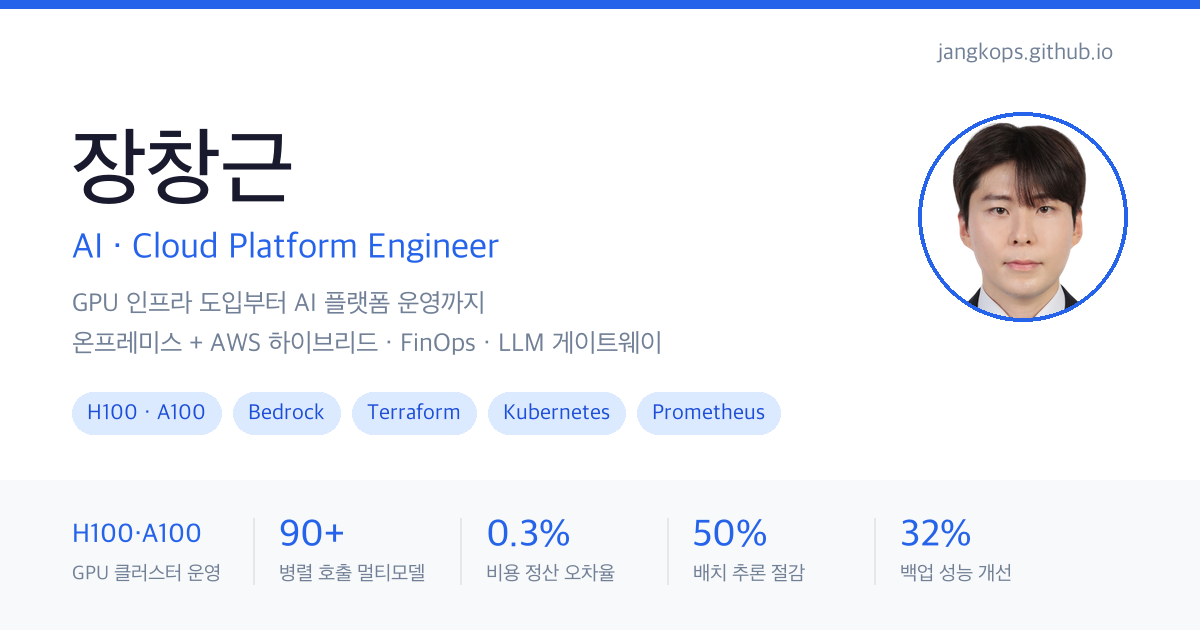
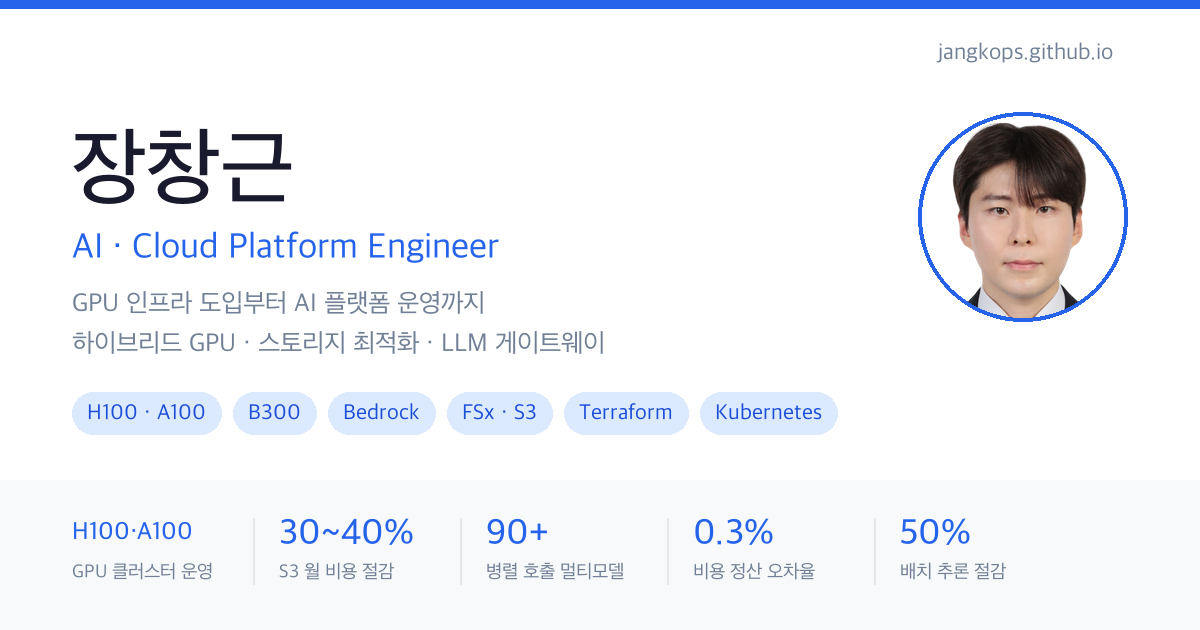
feat(site): 스토리지 최적화 성과 추가 및 B300 정정
내용 추가
- 신규 프로젝트: 연구 데이터 스토리지 비용·성능 최적화 및 사용량 가시화 (STAR)
  · S3 Intelligent-Tiering 기준 정립 + prefix 단위 데이터 분류·정리 +
    수명주기 규칙으로 월 S3 비용 30~40% 절감
  · 메타데이터 IOPS 병목 워크로드를 FSx 로 마이그레이션해 학습 중단 장애 대폭 감소
  · S3 Inventory·Athena 일배치 + DynamoDB 실시간 카운터를 Grafana 패널로 노출,
    과제코드·사용자 scope 에서 폴더 트리를 depth 끝까지 드릴다운해 객체 수·용량 확인
- 핵심 지표에 30~40% S3 월 비용 절감 추가 (5개 → 6개)
- 경력 요약·경력 사항·핵심 역량·Archive 설명에 스토리지 성과 반영
- Observability 역량 카드를 Observability & Storage 로 확장

정정
- B200 → B300 (고밀도 랙과 함께 도입 추진). B200 표기 전량 제거

레이아웃
- 지표 6개를 3+3 으로 고정 (중복이던 900px 규칙 제거)
  전 구간에서 마지막 줄이 컨테이너를 채워 고아 카드 없음
- og-image 갱신 (B300, S3 절감 지표 반영)

검증 1440/1280/900/821/768/700/640/375:
지표 3+3 · 2+2+2 전부 꽉 채움, 어절 중간 줄바꿈 0, 폭 미달 0,
지표값 넘침 0, 가로 오버플로우 0, 태그 불일치 0, STAR 배지 36.

diff --git a/index.html b/index.html
@@ -75,12 +75,16 @@
         <div class="career-summary__intro">
           <p class="career-summary__eyebrow">ABOUT ME</p>
           <h3>GPU·AI 워크로드를 위한 플랫폼 엔지니어</h3>
-          <p>총 경력 4년이상의 플랫폼 엔지니어로, 신약 연구 조직의 AI 워크로드를 받치는 GPU 인프라를 도입 단계부터 운영까지 책임지고 있습니다. A100·H100 기반 온프레미스 클러스터와 AWS Capacity Block(p4d·p4de·p5)을 병행하는 하이브리드 구성을 설계했고, 최근에는 B200·B300을 고밀도 랙에 도입하는 건을 추진했습니다. 도입에 그치지 않고 관측·정산·보호 체계를 직접 구현해 GPU 자원의 가용성과 비용을 함께 관리합니다. 온프레미스의 안정성과 클라우드 네이티브의 속도를 모두 경험했으며 0.3% 오차 미만의 GPU등 핵심 리소스의 복잡한 프로젝트별 일/월별 비용 정산 대시보드, Terraform 기반의 AWS Bedrock 생성형 AI 멀티모델 쿼터 게이트웨이 파이프라인 구축(배치 추론 경로로 단가 50% 절감), 90여 개 모델을 병렬 호출·합의하는 AI 에이전틱 에디터 개발, Ansible 기반의 계정 관리 자동화 통합 플랫폼을 구축하여 운영 공수를 절감했습니다. GPU·스토리지 통합 관측 체계와 커널 수준 리소스 보호 정책으로 연구 인프라의 가용성을 확보했고, 대규모 금융권 레거시 백업 시스템 성능을 32% 개선하는 등 실질적인 기술 성과를 보유하고 있습니다. AWS Generative AI Developer – Professional(2026), AWS DevOps Engineer – Professional(2025), CKA 등 담당 업무와 직결된 자격을 실무와 함께 유지하고 있습니다.</p>
+          <p>총 경력 4년이상의 플랫폼 엔지니어로, 신약 연구 조직의 AI 워크로드를 받치는 GPU 인프라를 도입 단계부터 운영까지 책임지고 있습니다. A100·H100 기반 온프레미스 클러스터와 AWS Capacity Block(p4d·p4de·p5)을 병행하는 하이브리드 구성을 설계했고, 최근에는 B300을 고밀도 랙과 함께 도입하는 건을 추진했습니다. 도입에 그치지 않고 관측·정산·보호 체계를 직접 구현해 GPU 자원의 가용성과 비용을 함께 관리합니다. 스토리지 계층에서는 S3 Intelligent-Tiering 정립과 prefix 단위 데이터 분류·정리로 월 S3 비용을 30~40% 절감했고, FSx 마이그레이션으로 메타데이터 IOPS를 개선해 학습 중단 장애를 크게 줄였습니다. 온프레미스의 안정성과 클라우드 네이티브의 속도를 모두 경험했으며 0.3% 오차 미만의 GPU등 핵심 리소스의 복잡한 프로젝트별 일/월별 비용 정산 대시보드, Terraform 기반의 AWS Bedrock 생성형 AI 멀티모델 쿼터 게이트웨이 파이프라인 구축(배치 추론 경로로 단가 50% 절감), 90여 개 모델을 병렬 호출·합의하는 AI 에이전틱 에디터 개발, Ansible 기반의 계정 관리 자동화 통합 플랫폼을 구축하여 운영 공수를 절감했습니다. GPU·스토리지 통합 관측 체계와 커널 수준 리소스 보호 정책으로 연구 인프라의 가용성을 확보했고, 대규모 금융권 레거시 백업 시스템 성능을 32% 개선하는 등 실질적인 기술 성과를 보유하고 있습니다. AWS Generative AI Developer – Professional(2026), AWS DevOps Engineer – Professional(2025), CKA 등 담당 업무와 직결된 자격을 실무와 함께 유지하고 있습니다.</p>
         </div>
         <div class="career-stats reveal-stagger">
           <article class="career-stat career-stat--text">
             <strong>H100 · A100</strong>
-            <span>GPU 클러스터 운영 · B200 도입 추진</span>
+            <span>GPU 클러스터 운영 · B300 도입 추진</span>
+          </article>
+          <article class="career-stat">
+            <strong>30~40%</strong>
+            <span>S3 월 비용 절감</span>
           </article>
           <article class="career-stat">
             <strong>90+</strong>
@@ -117,20 +121,23 @@
           <p>A100·H100 하이브리드 GPU 클러스터 운영과 Bedrock 기반 AI 파이프라인 설계 (AWS Generative AI Developer · DevOps Engineer Professional)</p>
           <div class="chip-cloud">
             <span class="chip">NVIDIA H100 · A100</span>
-            <span class="chip">B200 · B300</span>
+            <span class="chip">NVIDIA B300</span>
             <span class="chip">AWS Capacity Block</span>
             <span class="chip">Bedrock</span>
             <span class="chip">Bedrock Gateway</span>
           </div>
         </div>
         <div class="competency-card">
-          <span class="competency-card__eyebrow">Observability</span>
-          <strong>실시간 모니터링 체계</strong>
-          <p>Prometheus, Grafana, Alertmanager를 활용한 EtoE 실시간 모니터링 체계 구축 및 운영</p>
+          <span class="competency-card__eyebrow">Observability &amp; Storage</span>
+          <strong>관측 체계 · 스토리지 가시성</strong>
+          <p>Prometheus·Grafana 기반 GPU 관측에 더해, S3·FSx 사용량을 prefix·과제·사용자 단위로 추적하는 대시보드 운영</p>
           <div class="chip-cloud">
             <span class="chip">Prometheus</span>
             <span class="chip">Grafana</span>
             <span class="chip">Alertmanager</span>
+            <span class="chip">S3 Inventory</span>
+            <span class="chip">Amazon FSx</span>
+            <span class="chip">AWS Athena</span>
           </div>
         </div>
         <div class="competency-card">
@@ -191,7 +198,7 @@
             <span class="timeline__period">2025.11 ~ 현재 (재직중)</span>
             <strong class="timeline__company">GC녹십자 목암생명과학연구소</strong>
             <span class="timeline__role">Infra Architect (정규직 연구원)</span>
-            <p class="timeline__desc">AWS 클라우드 인프라 설계 및 구축(OS, EC2, Organization, IAM Identity Center, Permission Set, Cross-AZ, VPC, Capacity Block GPU 자원 관리 등 Finops 요소 포함), 멀티모델 AI 에이전트 애플리케이션 개발 및 인프라 파이프라인 구현, GPU 실시간 리소스 모니터링 및 알림 전송체계(Prometheus & Grafana) 구축, 인프라 장애 대응, 온프레미스/클라우드 GPU 인프라 자원 도입 및 수급 계약</p>
+            <p class="timeline__desc">AWS 클라우드 인프라 설계 및 구축(OS, EC2, Organization, IAM Identity Center, Permission Set, Cross-AZ, VPC, Capacity Block GPU 자원 관리 등 Finops 요소 포함), 멀티모델 AI 에이전트 애플리케이션 개발 및 인프라 파이프라인 구현, GPU 실시간 리소스 모니터링 및 알림 전송체계(Prometheus & Grafana) 구축, S3 Intelligent-Tiering·수명주기 정책 정립과 FSx 마이그레이션을 통한 스토리지 비용·성능 개선, 인프라 장애 대응, 온프레미스/클라우드 GPU 인프라 자원 도입 및 수급 계약</p>
             <div class="chip-cloud">
               <span class="chip">AWS</span>
               <span class="chip">React</span>
@@ -201,6 +208,8 @@
               <span class="chip">Bedrock</span>
               <span class="chip">Terraform</span>
               <span class="chip">Prometheus</span>
+              <span class="chip">Amazon FSx</span>
+              <span class="chip">S3</span>
             </div>
           </div>
         </div>
@@ -283,7 +292,7 @@
             <div class="pd-badge pd-badge--star-a">
               <span class="pd-badge__mark">A</span>
               <strong>행동 (Action)</strong>
-              <span>A100·H100 기반 온프레미스 클러스터를 상시 학습용으로, AWS Capacity Block(p4d·p4de·p5)을 탄력 수요용으로 배치하는 하이브리드 구성을 설계하고 수급 계약과 도입 협상을 직접 수행했습니다. 최근에는 B200·B300을 고밀도 랙에 도입하는 건을 추진했습니다. 도입에서 멈추지 않고 운영 3축을 직접 구현했습니다 — DCGM 커스텀 익스포터 기반 GPU·프로세스 관측, 과제별 비용 정산 대시보드, cgroup 리소스 쿼터와 OOM Guard 데몬을 통한 노드 보호입니다.</span>
+              <span>A100·H100 기반 온프레미스 클러스터를 상시 학습용으로, AWS Capacity Block(p4d·p4de·p5)을 탄력 수요용으로 배치하는 하이브리드 구성을 설계하고 수급 계약과 도입 협상을 직접 수행했습니다. 최근에는 B300을 고밀도 랙과 함께 도입하는 건을 추진했습니다. 도입에서 멈추지 않고 운영 3축을 직접 구현했습니다 — DCGM 커스텀 익스포터 기반 GPU·프로세스 관측, 과제별 비용 정산 대시보드, cgroup 리소스 쿼터와 OOM Guard 데몬을 통한 노드 보호입니다.</span>
             </div>
             <div class="pd-badge pd-badge--star-r">
               <span class="pd-badge__mark">R</span>
@@ -294,7 +303,7 @@
           <div class="chip-cloud" style="padding: 0 22px 22px;">
             <span class="chip">NVIDIA H100</span>
             <span class="chip">A100</span>
-            <span class="chip">B200 · B300</span>
+            <span class="chip">NVIDIA B300</span>
             <span class="chip">고밀도 랙</span>
             <span class="chip">On-prem DGX</span>
             <span class="chip">AWS Capacity Block</span>
@@ -302,6 +311,47 @@
             <span class="chip">DCGM</span>
             <span class="chip">Prometheus</span>
             <span class="chip">cgroup</span>
+          </div>
+        </article>
+        <article class="project-detail-card project-detail-card--cloud reveal">
+          <div class="project-detail-card__head">
+            <span class="project-detail-card__eyebrow">GC녹십자 목암생명과학연구소 | 2025.11 ~ 현재</span>
+            <strong>연구 데이터 스토리지 비용·성능 최적화 및 사용량 가시화</strong>
+            <p>S3 Intelligent-Tiering 정립과 FSx 마이그레이션으로 비용과 메타데이터 성능을 동시에 개선하고, prefix 단위까지 추적하는 대시보드 구축</p>
+          </div>
+          <div class="project-detail-badges">
+            <div class="pd-badge pd-badge--star-s">
+              <span class="pd-badge__mark">S</span>
+              <strong>상황 (Situation)</strong>
+              <span>연구 데이터가 정리 기준 없이 축적되면서 월 S3 비용이 큰 금액으로 불어났지만, 어느 과제와 사용자가 무엇을 쌓고 있는지 특정할 수 없었습니다. 동시에 학습 워크로드는 대량의 작은 파일을 다루는 특성상 <b>메타데이터 IOPS가 병목</b>이 되어 학습이 중단되는 장애가 반복됐습니다.</span>
+            </div>
+            <div class="pd-badge pd-badge--star-t">
+              <span class="pd-badge__mark">T</span>
+              <strong>과제 (Task)</strong>
+              <span>비용은 스토리지 클래스와 데이터 수명 정책으로, 성능은 파일시스템 계층 교체로 각각 해결하고, 같은 문제가 재발하지 않도록 사용량을 상시 추적 가능한 상태로 만드는 것이 목표였습니다.</span>
+            </div>
+            <div class="pd-badge pd-badge--star-a">
+              <span class="pd-badge__mark">A</span>
+              <strong>행동 (Action)</strong>
+              <span>먼저 prefix 단위로 데이터를 분류해 접근 패턴을 파악한 뒤, <b>S3 Intelligent-Tiering</b>을 기준 스토리지 클래스로 정립하고 수명주기 규칙 수립과 불필요 데이터 정리를 병행했습니다. 메타데이터 IOPS가 병목인 워크로드는 <b>FSx로 마이그레이션</b>했습니다. 재발 방지를 위해 S3 Inventory와 Athena 기반 일배치 집계에 DynamoDB 실시간 카운터를 결합해 Grafana 패널로 노출했고, 프로젝트 코드별·사용자별 scope에서 폴더 트리를 <b>depth 끝까지 드릴다운</b>해 객체 수와 용량 단위로 확인할 수 있는 대시보드를 구현했습니다.</span>
+            </div>
+            <div class="pd-badge pd-badge--star-r">
+              <span class="pd-badge__mark">R</span>
+              <strong>결과 (Result)</strong>
+              <span>월 S3 비용을 <b>30~40% 절감</b>했고, FSx 전환으로 메타데이터 IOPS가 개선되어 학습 중단 장애가 대폭 감소했습니다. 사용량이 prefix·과제·사용자 단위로 상시 노출되면서, 비용 증가를 사후 청구서가 아니라 발생 시점에 확인하고 대응할 수 있게 됐습니다.</span>
+            </div>
+          </div>
+          <div class="chip-cloud" style="padding: 0 22px 22px;">
+            <span class="chip">Amazon S3</span>
+            <span class="chip">S3 Intelligent-Tiering</span>
+            <span class="chip">Lifecycle Policy</span>
+            <span class="chip">S3 Inventory</span>
+            <span class="chip">Amazon FSx</span>
+            <span class="chip">메타데이터 IOPS</span>
+            <span class="chip">AWS Athena</span>
+            <span class="chip">DynamoDB</span>
+            <span class="chip">Prometheus</span>
+            <span class="chip">Grafana</span>
           </div>
         </article>
         <article class="project-detail-card project-detail-card--cloud reveal">
@@ -428,7 +478,6 @@
             <span class="chip">Docker</span>
           </div>
         </article>
-        <!-- Project 4: 레거시 백업 시스템 U2L 전환 -->
         <article class="project-detail-card project-detail-card--dev reveal">
           <div class="project-detail-card__head">
             <span class="project-detail-card__eyebrow">롯데손해보험 | 2024.06 ~ 2025.01</span>
@@ -465,7 +514,6 @@
             <span class="chip">VMware</span>
           </div>
         </article>
-        <!-- Project 5: 금융감독원 감사 대비 로그 자동화 -->
         <article class="project-detail-card project-detail-card--dev reveal">
           <div class="project-detail-card__head">
             <span class="project-detail-card__eyebrow">롯데손해보험 | 2024.09 ~ 2024.12</span>
@@ -500,7 +548,6 @@
             <span class="chip">NAS</span>
           </div>
         </article>
-        <!-- Project 6: CI/CD 파이프라인 도입 -->
         <article class="project-detail-card project-detail-card--oa reveal">
           <div class="project-detail-card__head">
             <span class="project-detail-card__eyebrow">엑셈 | 2022.11 ~ 2023.03</span>
@@ -538,7 +585,6 @@
             <span class="chip">Nexus Repository</span>
           </div>
         </article>
-        <!-- Project 7: GitOps 파이프라인 -->
         <article class="project-detail-card project-detail-card--etc reveal">
           <div class="project-detail-card__head">
             <span class="project-detail-card__eyebrow">역량 강화 | 2024.12 ~ 2025.07</span>
@@ -1051,12 +1097,14 @@
         <a class="project-card" data-category="observability" href="https://github.com/tmdflwk34/GPU-Observability-System" target="_blank" rel="noopener">
           <span class="project-card__type project-card__type--github">GitHub</span>
           <strong>GPU Observability System</strong>
-          <p>클라우드 GPU 인스턴스와 온프레미스 DGX를 함께 관측하는 통합 모니터링 체계. GPU·프로세스 메트릭에 더해 S3 사용량·비용까지 수집하고 임계치 알림을 자동 발송</p>
+          <p>클라우드 GPU 인스턴스와 온프레미스 DGX를 함께 관측하는 통합 모니터링 체계. GPU·프로세스 메트릭에 더해 S3·FSx 사용량을 prefix별로 수집하고, 과제·사용자 scope에서 폴더 트리를 depth 끝까지 드릴다운해 객체 수·용량까지 확인</p>
           <div class="chip-cloud">
             <span class="chip">GPU/CPU/MEM</span>
             <span class="chip">DCGM Exporter(Custom)</span>
             <span class="chip">FSx Exporter(Custom)</span>
-            <span class="chip">S3 Cost Monitor</span>
+            <span class="chip">S3 Inventory</span>
+            <span class="chip">prefix 드릴다운</span>
+            <span class="chip">FSx Metrics</span>
             <span class="chip">On-prem DGX</span>
             <span class="chip">Prometheus</span>
             <span class="chip">Grafana</span>

diff --git a/css/style.css b/css/style.css
@@ -552,8 +552,8 @@ footer {
 }
 .career-stats {
   display: grid;
-  /* 지표 5개가 한 줄에 들어가도록 고정. auto-fill 이면 4+1 로 갈라짐 */
-  grid-template-columns: repeat(5, 1fr);
+  /* 지표 6개를 3+3 으로 고정. auto-fill 이면 폭에 따라 고아 카드가 생김 */
+  grid-template-columns: repeat(3, 1fr);
   gap: 12px;
 }
 .career-stat {
@@ -1008,11 +1008,6 @@ footer {
 }
 
 /* ── Mobile Performance ── */
-@media (max-width: 900px) {
-  /* 5칸이 좁아지는 구간 — 3 + 2 로 분배 */
-  .career-stats { grid-template-columns: repeat(3, 1fr); }
-}
-
 @media (max-width: 768px) {
   #ambientCanvas { display: none; }
   .resume-header__photo { animation: none; }
